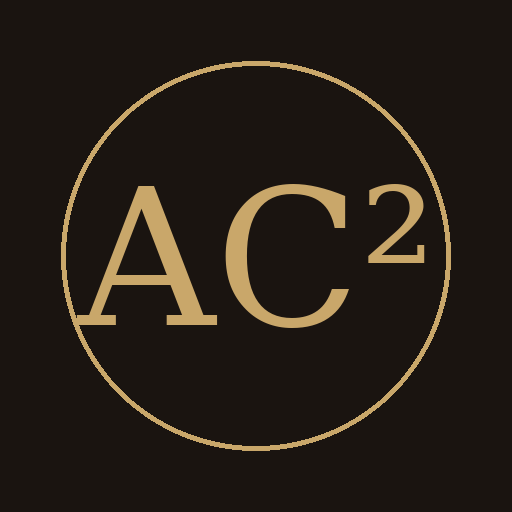
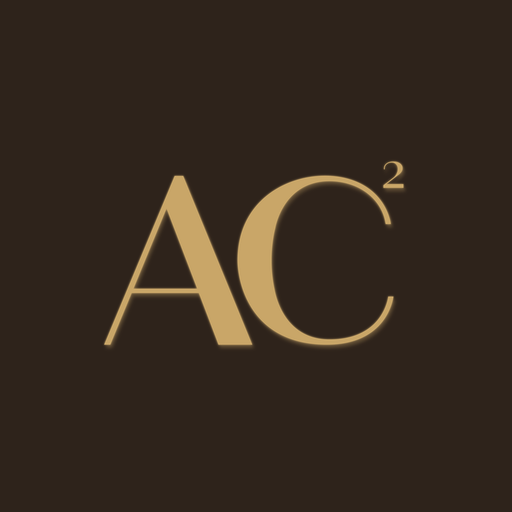
ново лого

diff --git a/index.html b/index.html
@@ -9,7 +9,8 @@
 <meta name="apple-mobile-web-app-capable" content="yes" />
 <meta name="apple-mobile-web-app-status-bar-style" content="default" />
 <title>American College Arcus Club</title>
-<link rel="icon" href="favicon.svg" />
+<link rel="icon" href="favicon.png" />
+<link rel="apple-touch-icon" href="icon-192.png" />
 <link rel="manifest" href="manifest.json" />
 <link rel="preconnect" href="https://twcxfqgknhqicxqghcrx.supabase.co" crossorigin />
 <link rel="preconnect" href="https://cdn.jsdelivr.net" crossorigin />
@@ -58,6 +59,22 @@
   .evposter{width:100%;border-radius:12px;margin-bottom:12px;display:block;object-fit:cover;max-height:240px;}
   .evvideo{width:100%;border-radius:12px;margin:10px 0 4px;display:block;background:#000;max-height:300px;}
   .sec-sub{color:var(--muted);font-size:13px;padding:0 20px 10px;}
+  /* Новини — „писмо от клуба" с печат AC² */
+  .newswrap{padding:0 20px;}
+  .newscard{position:relative;background:var(--surface);border-radius:16px;padding:14px;margin-bottom:12px;display:flex;gap:12px;
+    box-shadow:6px 6px 13px #d9cdb6,-6px -6px 13px #fffdf4;overflow:hidden;}
+  .newscard .seal{flex:none;width:44px;height:44px;border-radius:50%;background:var(--medallion);display:flex;align-items:center;justify-content:center;}
+  .newscard .seal img{width:30px;height:auto;object-fit:contain;}
+  .newscard .ncol{flex:1;min-width:0;}
+  .newscard .nkick{display:flex;align-items:center;gap:7px;color:var(--gold);font-size:10px;letter-spacing:2px;text-transform:uppercase;}
+  .newscard h3{color:var(--cream);font-size:16px;margin:4px 0 0;font-family:var(--serif,Georgia,serif);font-weight:600;line-height:1.25;}
+  .newscard .ntext{color:var(--text);font-size:14px;line-height:1.5;margin-top:4px;white-space:pre-wrap;}
+  .newscard .ndate{color:var(--muted);font-size:12px;margin-top:8px;}
+  .newscard.fresh::before{content:"";position:absolute;inset:0;border-radius:16px;box-shadow:0 0 0 1.5px var(--gold) inset;opacity:0;animation:newsGlow 2.6s ease-in-out infinite;pointer-events:none;}
+  @keyframes newsGlow{0%,100%{opacity:0}50%{opacity:.5}}
+  .newsdot{display:inline-block;width:8px;height:8px;border-radius:50%;background:var(--gold);margin-left:auto;animation:badgePulse 1.4s ease-in-out infinite;}
+  .newtag{background:var(--gold);color:#fff7ea;font-size:9px;font-weight:700;border-radius:8px;padding:2px 6px;vertical-align:middle;margin-left:6px;}
+  .newcount{color:var(--gold-bright);}
   .grid{display:grid;grid-template-columns:1fr 1fr;gap:12px;padding:0 16px;}
   .grid{gap:16px;}
   .fcard{display:flex;flex-direction:column;min-height:178px;border-radius:22px;padding:16px;
@@ -370,14 +387,24 @@ function markAnnSeen(){if(ANN&&ANN.length){try{localStorage.setItem('acac_ann_se
 function annHtml(){
   if(!ANN||!ANN.length)return '';
   const seen=annNewestSeen();
-  const cards=ANN.slice(0,6).map(a=>{
+  const unseen=annUnseenCount();
+  const cards=ANN.slice(0,8).map(a=>{
     const isNew=(a.created_at||'')>seen;
-    const tag=isNew?` <span style="background:var(--gold);color:#fff7ea;font-size:9px;font-weight:700;border-radius:8px;padding:2px 6px;vertical-align:middle;">${lang==='bg'?'НОВО':'NEW'}</span>`:'';
-    const d=a.created_at?new Date(a.created_at).toLocaleDateString(lang==='bg'?'bg-BG':'en-GB',{day:'2-digit',month:'2-digit',year:'numeric'}):'';
-    const hl=isNew?`border:1px solid var(--gold);box-shadow:0 0 0 2px rgba(191,138,46,.15);`:'';
-    return `<div class="ev" style="margin-bottom:8px;${hl}"><h3 style="font-size:15px;">${esc(a.title)}${tag}</h3><div style="margin-top:4px;white-space:pre-wrap;">${esc(a.body)}</div><div class="m" style="margin-top:6px;">${d}</div></div>`;
+    const tag=isNew?`<span class="newtag">${lang==='bg'?'НОВО':'NEW'}</span>`:'';
+    const dot=isNew?`<span class="newsdot"></span>`:'';
+    const d=a.created_at?new Date(a.created_at).toLocaleDateString(lang==='bg'?'bg-BG':'en-GB',{day:'2-digit',month:'long',year:'numeric'}):'';
+    return `<div class="newscard${isNew?' fresh':''}">
+      <div class="seal"><img src="${AC2}" alt="AC²"/></div>
+      <div class="ncol">
+        <div class="nkick"><span>${lang==='bg'?'Новина от клуба':'Club news'}</span>${dot}</div>
+        <h3>${esc(a.title)}${tag}</h3>
+        <div class="ntext">${esc(a.body)}</div>
+        <div class="ndate">${d}</div>
+      </div>
+    </div>`;
   }).join('');
-  return `<div class="sec-title">${lang==='bg'?'Новини':'News'}</div>${cards}`;
+  const count=unseen?` <span class="newcount">· ${unseen} ${lang==='bg'?(unseen===1?'нова':'нови'):'new'}</span>`:'';
+  return `<div class="sec-title">${lang==='bg'?'Новини':'News'}${count}</div><div class="newswrap">${cards}</div>`;
 }
 let loginMode='login';
 const app=document.getElementById('app');

diff --git a/sw.js b/sw.js
@@ -1,8 +1,8 @@
 // Service worker — прави приложението инсталируемо и достъпно офлайн (обвивката).
-const CACHE = 'acac-v87';
+const CACHE = 'acac-v89';
 const ASSETS = [
   './', './index.html', './admin.html', './config.js', './db.js',
-  './manifest.json', './favicon.svg', './icon-192.png', './icon-512.png',
+  './manifest.json', './favicon.png', './icon-192.png', './icon-512.png',
   './cards/logo-ac2.webp', './cards/logo-culture.webp', './cards/logo-cinema.webp',
   './cards/logo-table.webp', './cards/logo-music.webp', './cards/logo-conversation.webp',
   './cards/logo-community.webp', './cards/logo-theater.webp'

diff --git a/admin.html b/admin.html
@@ -7,7 +7,7 @@
 <meta name="viewport" content="width=device-width, initial-scale=1" />
 <meta name="theme-color" content="#f6efe2" />
 <title>Arcus Club · Админ панел</title>
-<link rel="icon" href="favicon.svg" />
+<link rel="icon" href="favicon.png" />
 <link href="https://fonts.googleapis.com/css2?family=Cormorant+Garamond:wght@400;500;600&display=swap" rel="stylesheet" />
 <style>
   :root{--bg:#f6efe2;--surface:#fffaf0;--gold:#c8643c;--gold-soft:#b07a4a;--cream:#3a2c23;--text:#5a4a3c;